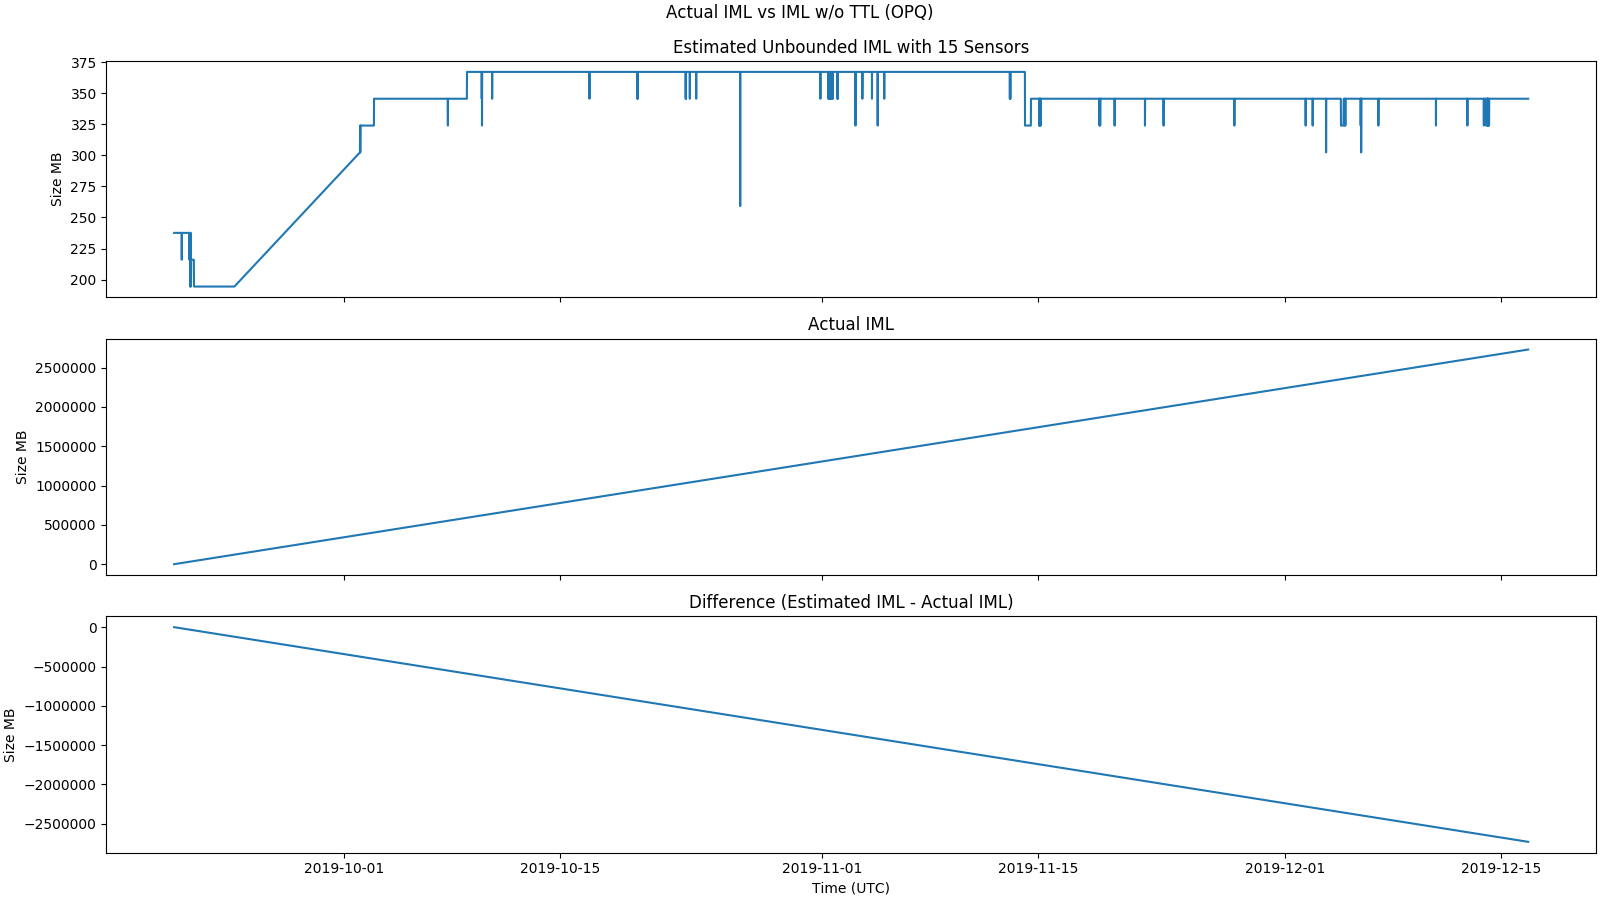
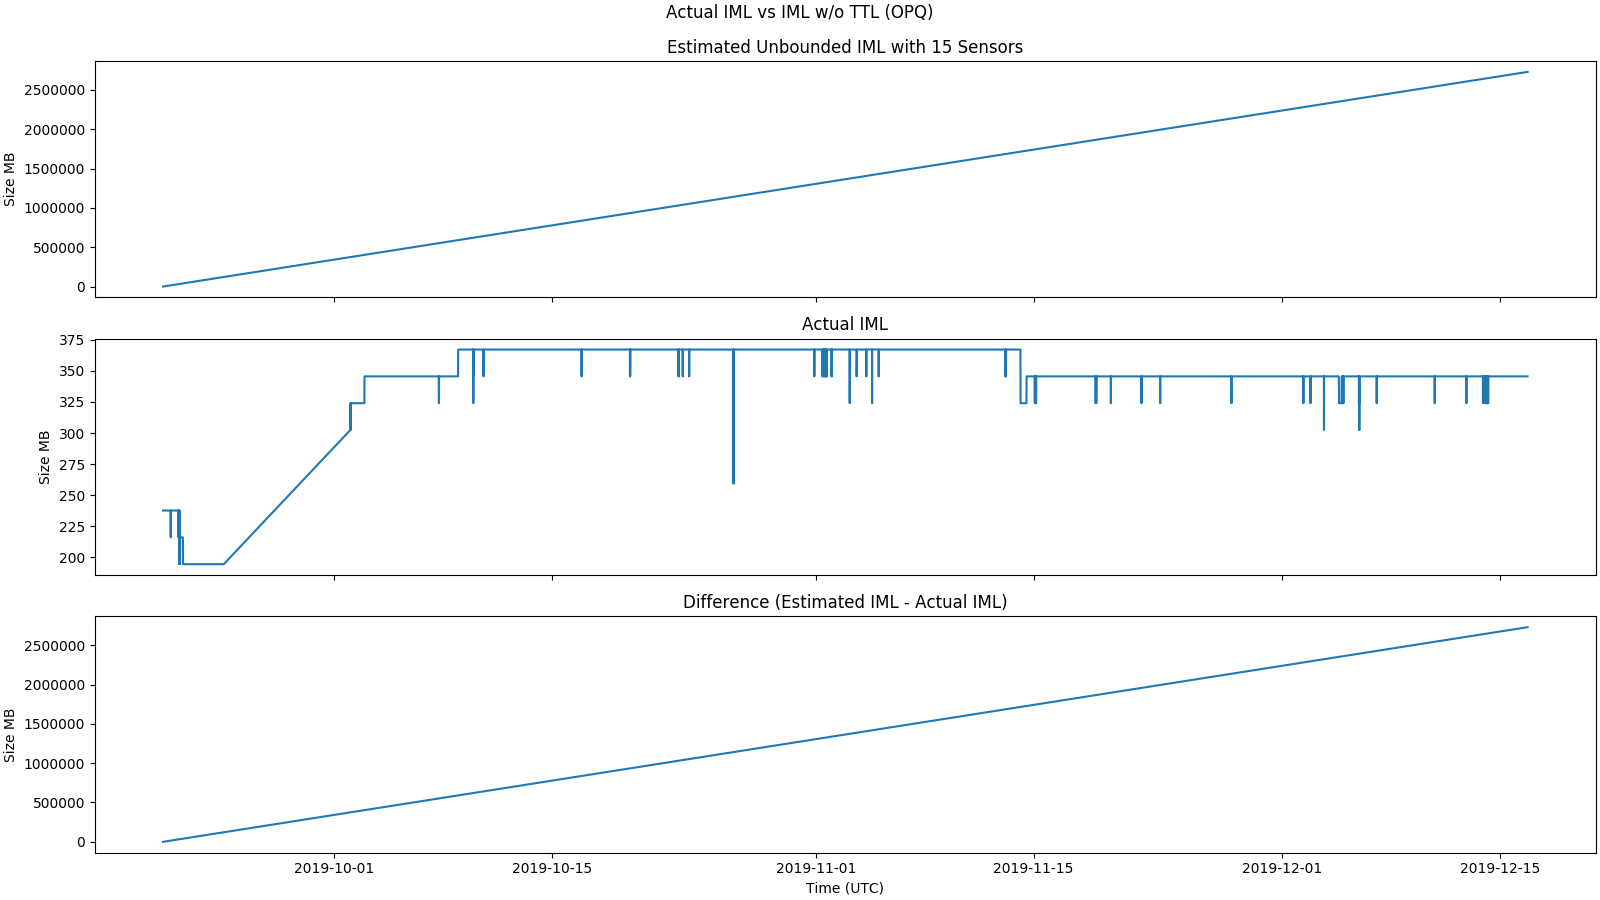
Once again, update the plots.

diff --git a/plotting/opq/actual_data.py b/plotting/opq/actual_data.py
@@ -750,8 +750,8 @@ def plot_system_resources(laha_stats: List[LahaStat], out_dir: str):
 
 def plot_iml_vs_no_tll(laha_dts: np.ndarray,
                        est_dts: np.ndarray,
-                       est_iml_mb: np.ndarray,
                        laha_iml_mb: np.ndarray,
+                       est_iml_mb: np.ndarray,
                        out_dir: str) -> None:
     # Plot
     fig, ax = plt.subplots(3, 1, figsize=(16, 9), sharex="all", constrained_layout=True)
@@ -1371,6 +1371,8 @@ if __name__ == "__main__":
     # Estimated data
     print("Making estimated data...", end=" ")
     estimated_data: List[EstimatedValue] = list(map(EstimatedValue, range(1, time_range + 1)))
+    print("Done.")
+    print("Aligning estimated data...", end=" ")
     aligned_laha_est_dts, aligned_laha_est_stats, aligned_est_dts, aligned_est_values = align_data(
             laha_stats,
             estimated_data,
@@ -1379,7 +1381,9 @@ if __name__ == "__main__":
             lambda laha_stat: laha_stat,
             lambda est_val: est_val
     )
+    print("Done.")
 
+    print("Extracting estimated parameters...", end=" ")
     # Est IML
     aligned_laha_est_active_devices: np.ndarray = np.array(
             list(map(lambda laha_stat: laha_stat.laha_stats.active_devices, aligned_laha_est_stats)))
